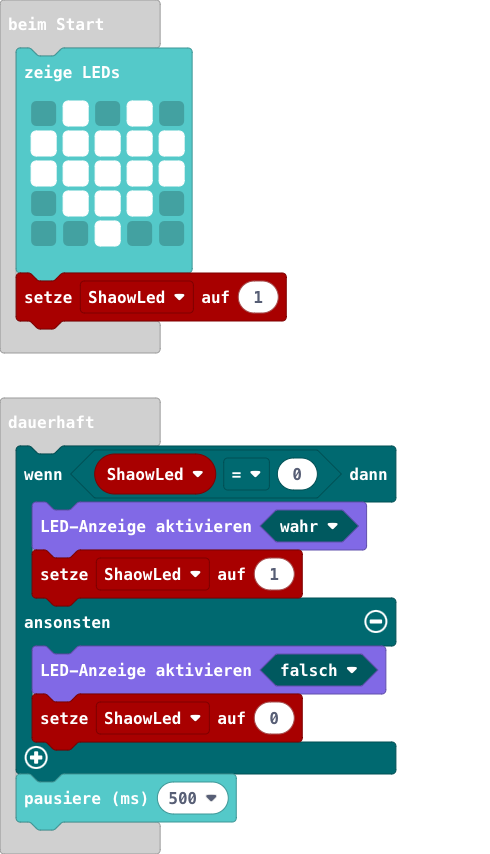
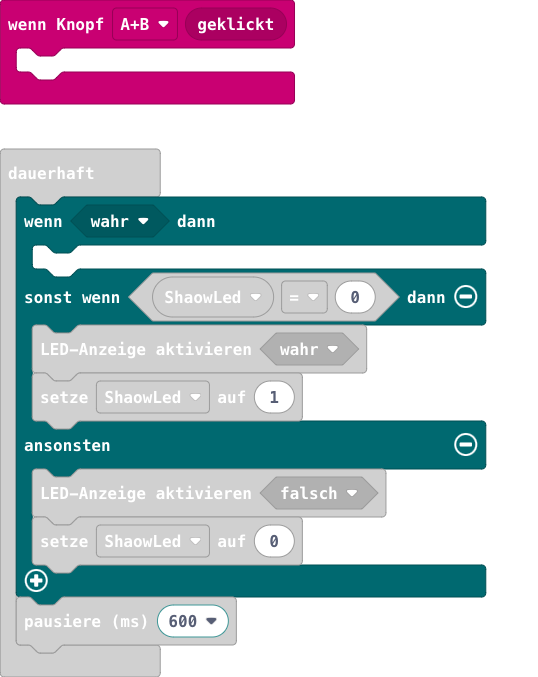
Aktualisiere pxt.json, main.blocks, main.ts

diff --git a/main.ts b/main.ts
@@ -1,3 +1,6 @@
+input.onButtonEvent(Button.AB, input.buttonEventClick(), function () {
+	
+})
 basic.showLeds(`
     . # . # .
     # # # # #
@@ -7,12 +10,14 @@ basic.showLeds(`
     `)
 let ShaowLed = 1
 basic.forever(function () {
-    if (ShaowLed == 0) {
+    if (true) {
+    	
+    } else if (ShaowLed == 0) {
         led.enable(true)
         ShaowLed = 1
     } else {
         led.enable(false)
         ShaowLed = 0
     }
-    basic.pause(500)
+    basic.pause(600)
 })
